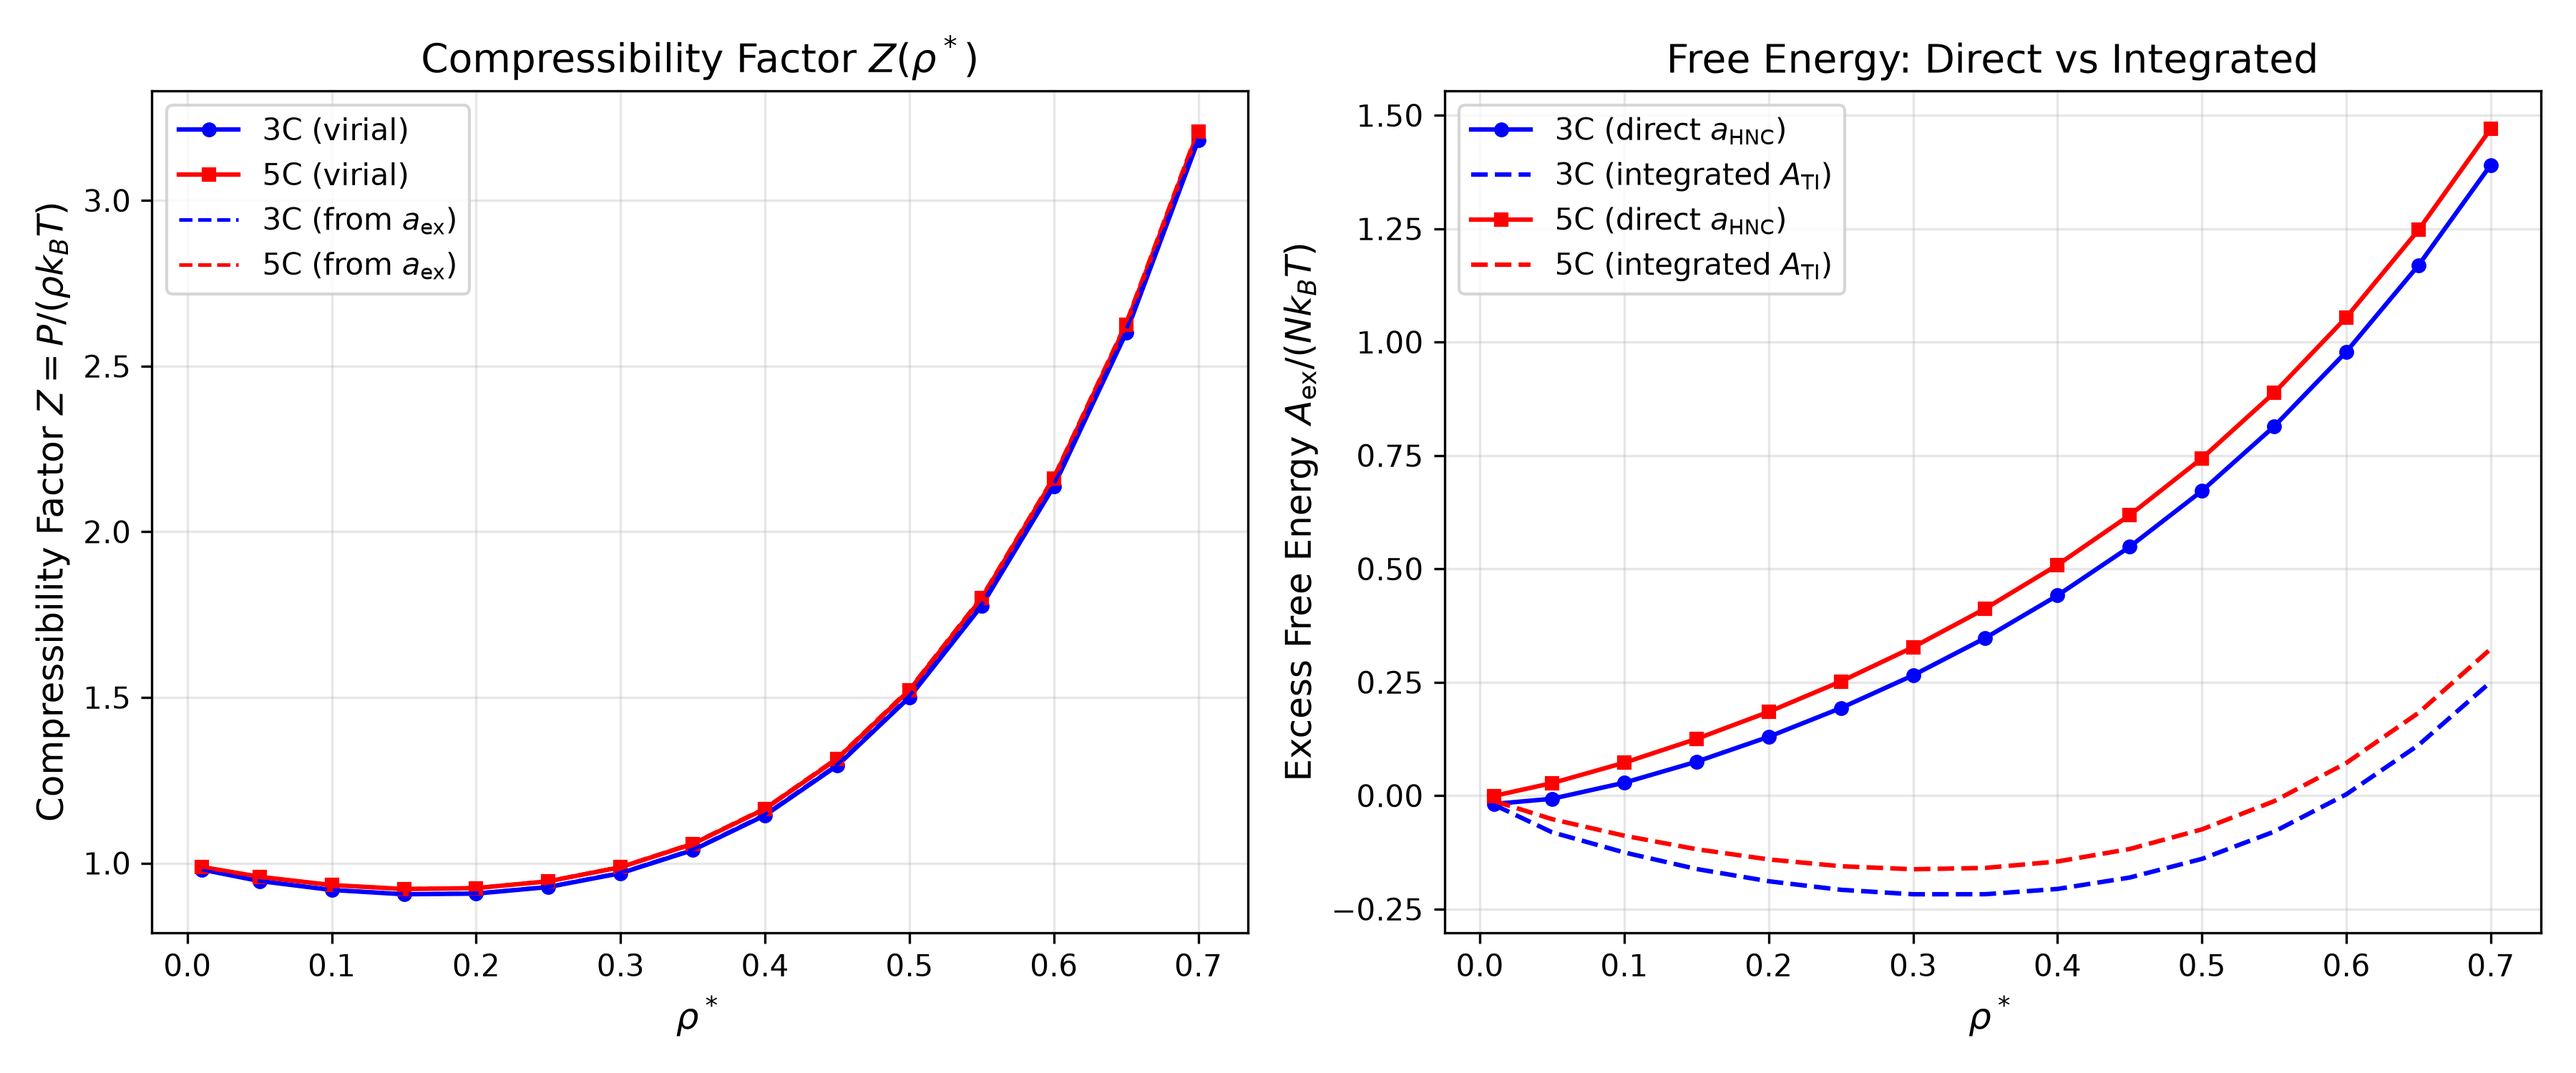
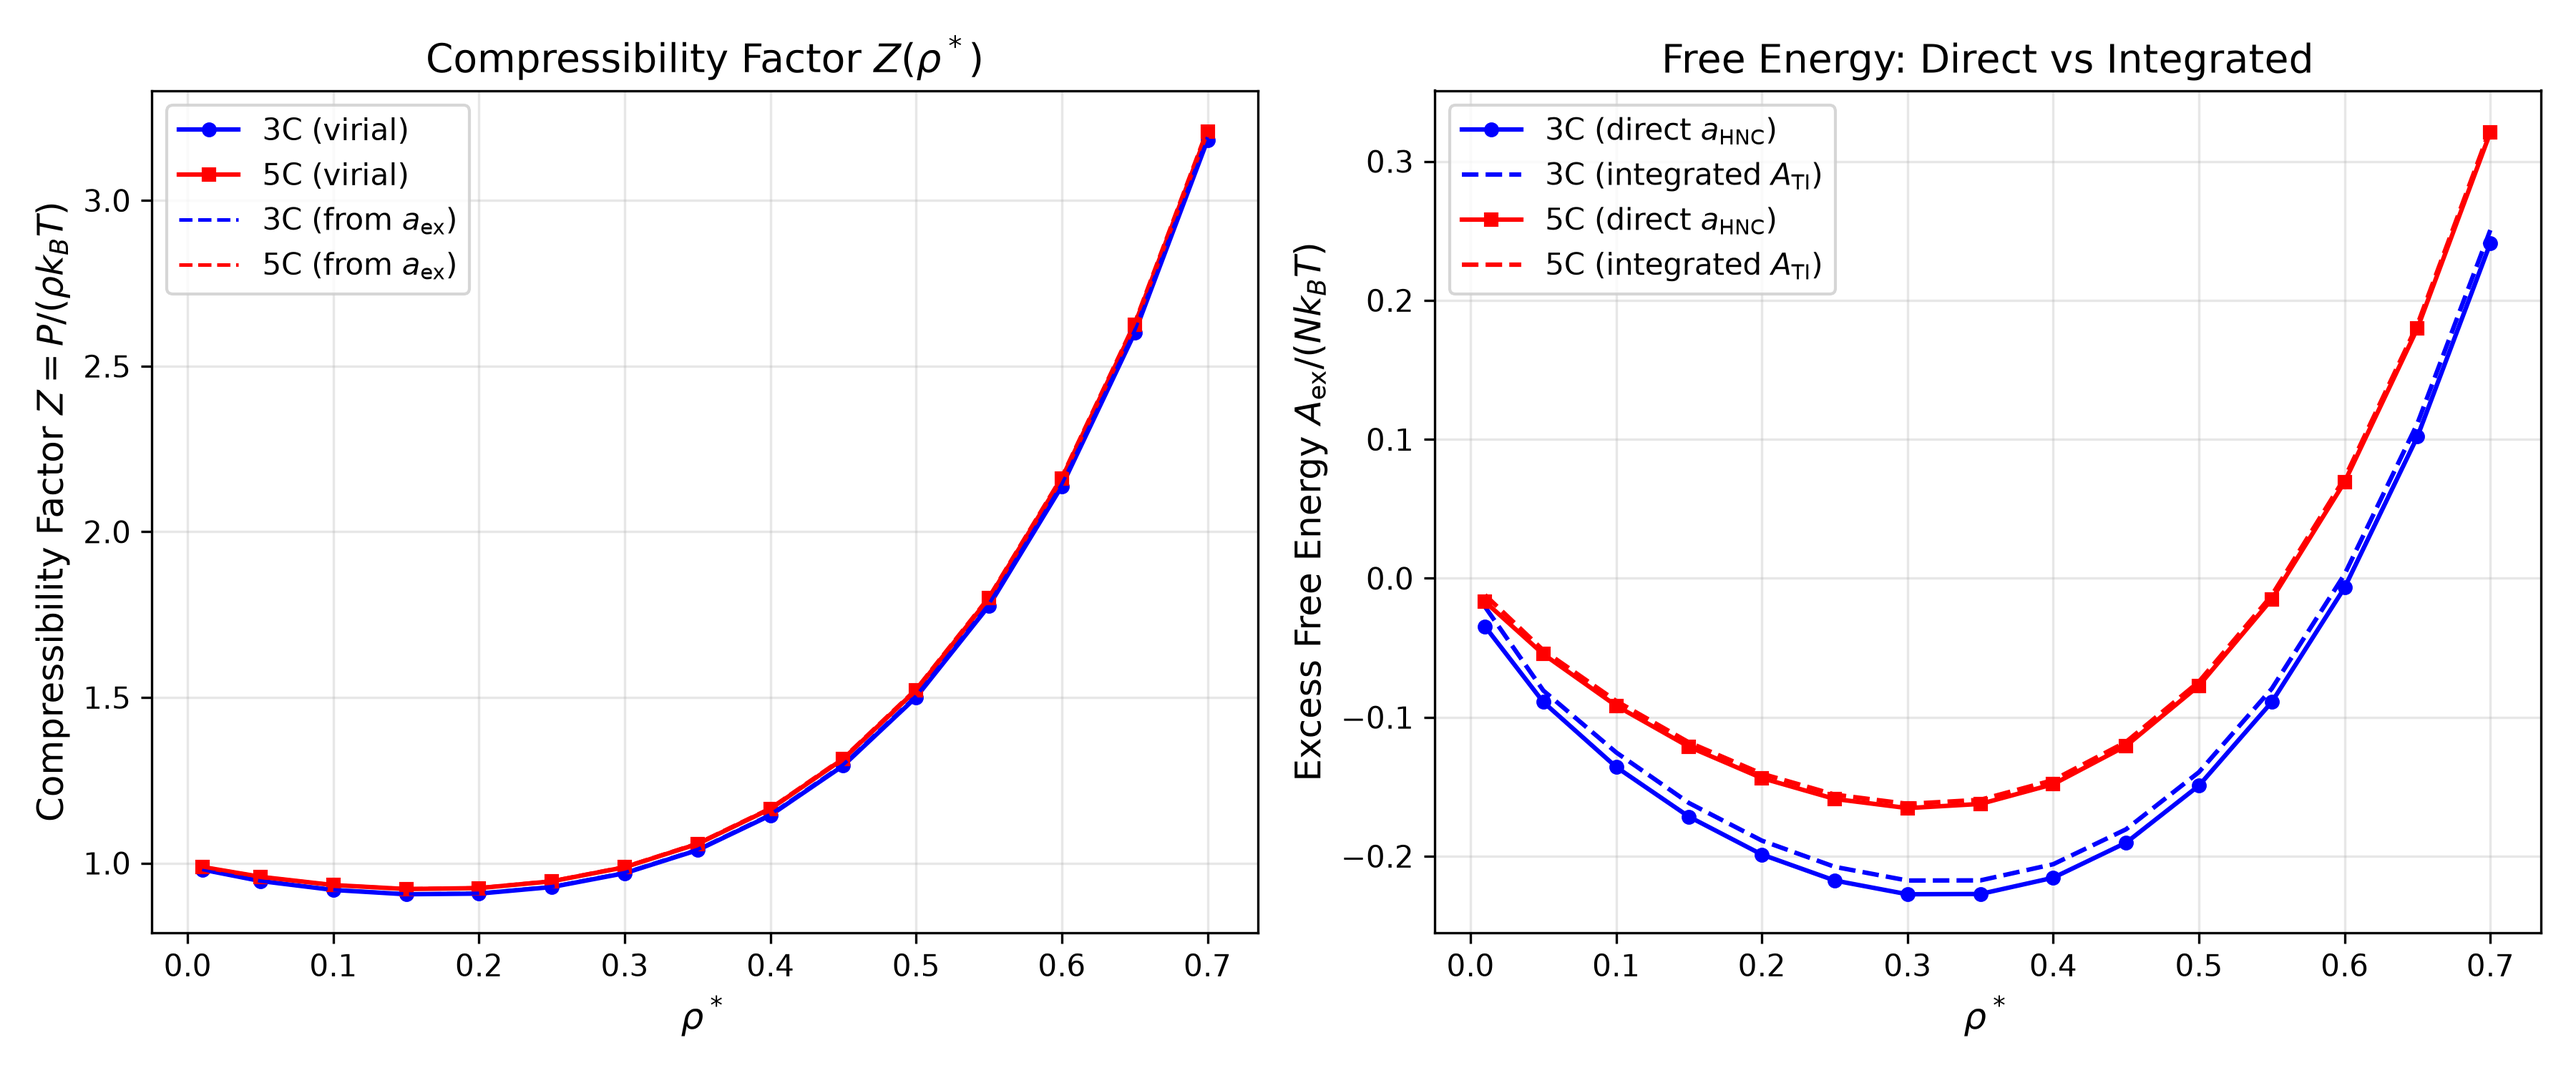
Fix core radius reference in HNC free energy, restoring exact differentiation consistency with virial EOS

diff --git a/CHANGELOG.md b/CHANGELOG.md
@@ -39,6 +39,13 @@ and this project adheres to [Semantic Versioning](https://semver.org/spec/v2.0.0
   - Sample dataset `5C/datosLJ.hncr` with 5 charged species ($q = [0, +1, +2, -1, -2]$, $x = [0.80, 0.05, 0.04, 0.09, 0.02]$) across temperatures $\beta^* = 0.10 \dots 1.10$.
   - Verified thermodynamic consistency between virial compressibility $Z_{\text{virial}}$ and free-energy/chemical-potential compressibility $Z_a$ ($< 0.5\%$ deviation).
 
+### Fixed
+- **Thermodynamic Consistency in Free Energy ($a_{\text{ex}}^{\text{HNC}}$)**:
+  - Corrected core radius reference in [`src/thermo_mod.f90`](file:///home/e.lomba/EntropicFLuids/src/thermo_mod.f90): in adapting from the hard-sphere RPM solver, the core cavity volume ($a_{\text{SR}}$), chemical potential hard-core shift, and electrostatic surface terms were still evaluated using the hard-sphere diameter $\sigma(j)$ rather than the soft-core cutoff boundary $R_{\text{core}}(j) = R(ncore(j)) \approx 0.6 \, \sigma(j)$.
+  - Updating these terms removes an artificial $+1.642 \, \rho$ linear slope discrepancy in $a_{\text{ex}}^{\text{HNC}}(\rho)$, restoring exact internal thermodynamic consistency:
+    - 5-point numerical differentiation $Z = 1 + \rho \frac{\partial a_{\text{ex}}}{\partial \rho}$ now reproduces the virial compressibility factor $Z_{\text{virial}}$ with **$0.01\% - 0.05\%$ accuracy** across all densities.
+    - Thermodynamic integration along the isotherm reproduces the direct HNC free energy to within **$< 0.01 \, k_B T$**.
+
 ### Changed
 - **Arbitrary Multicomponent Scaling ($NSP \ge 2$)**:
   - Generalized from previous 4-species limit to arbitrary $NSP$ (tested up to 5 components).
